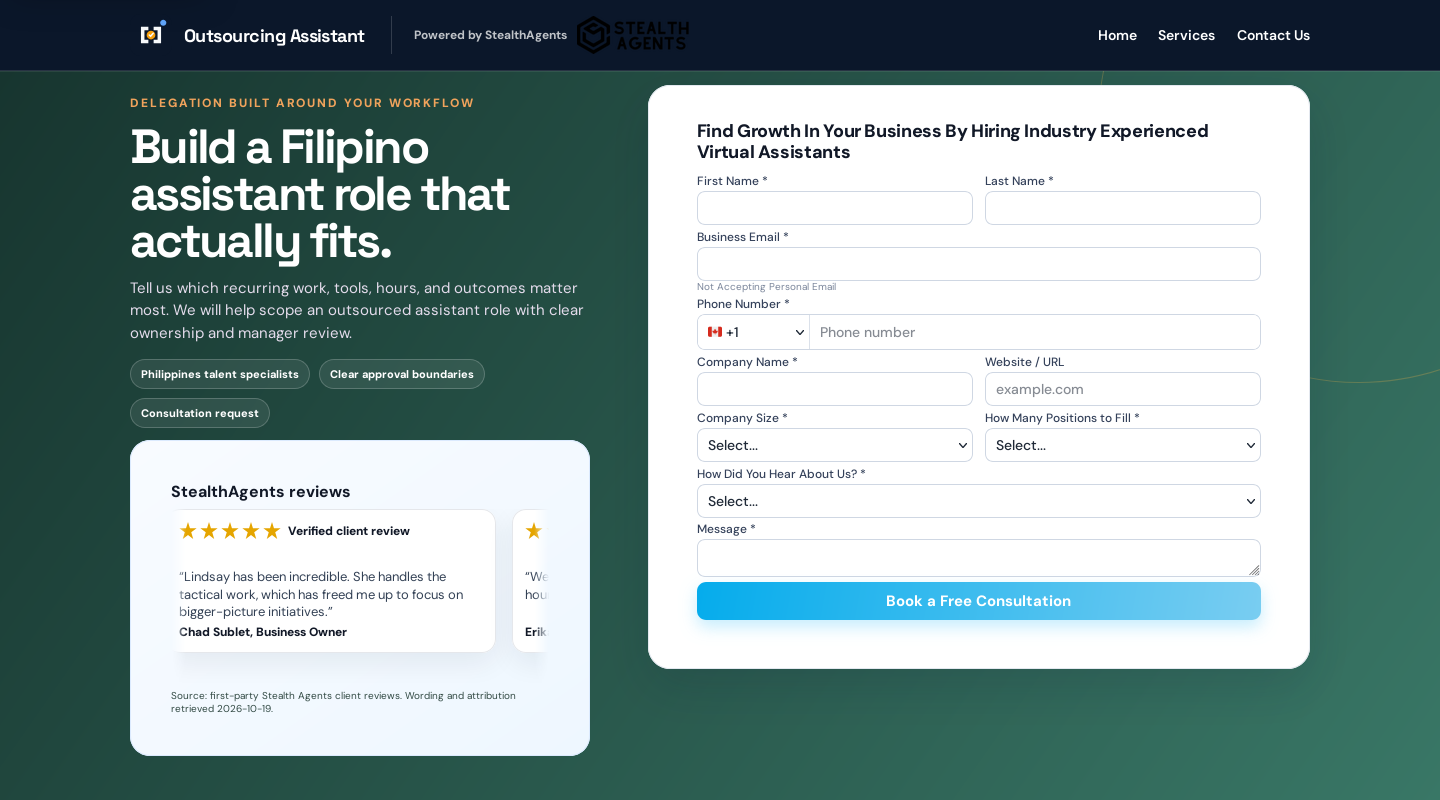
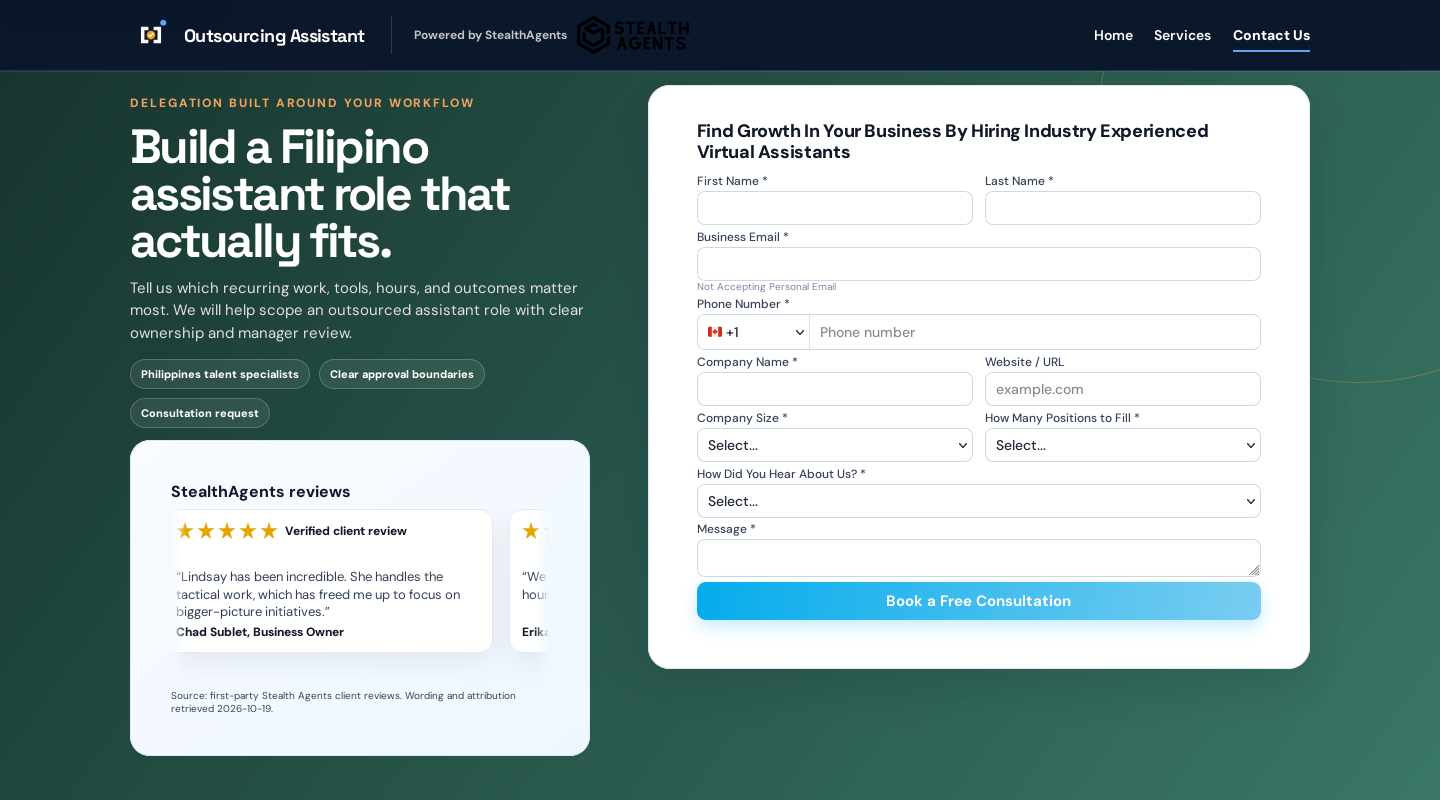
fix: vary editorial art and restore active navigation

diff --git a/app/editorial-art/[slug]/route.ts b/app/editorial-art/[slug]/route.ts
@@ -6,7 +6,6 @@ export const dynamic = 'force-dynamic';
 export const runtime = 'nodejs';
 
 const embeddedFont = readFileSync(join(process.cwd(), 'public/fonts/dm-sans-700.ttf')).toString('base64');
-
 const escapeXml = (value: string) => value.replace(/[&<>"']/g, character => ({ '&': '&amp;', '<': '&lt;', '>': '&gt;', '"': '&quot;', "'": '&apos;' }[character] ?? character));
 
 function wrapTitle(title: string) {
@@ -26,6 +25,47 @@ function hash(value: string) {
   return result >>> 0;
 }
 
+type Topic = 'schedule' | 'systems' | 'evidence' | 'service' | 'access' | 'finance' | 'quality' | 'handoff' | 'people' | 'workflow';
+function topicFor(title: string): Topic {
+  if (/calendar|schedule|meeting|timezone|travel|appointment|deadline/i.test(title)) return 'schedule';
+  if (/crm|data|record|database|system|integration|automation/i.test(title)) return 'systems';
+  if (/research|source|evidence|claim|citation|content|article/i.test(title)) return 'evidence';
+  if (/inbox|support|customer|ticket|service|recovery/i.test(title)) return 'service';
+  if (/access|security|permission|password|governance|offboard/i.test(title)) return 'access';
+  if (/invoice|bookkeep|finance|payment|billing|payroll|expense/i.test(title)) return 'finance';
+  if (/quality|review|sample|scorecard|acceptance|defect|audit/i.test(title)) return 'quality';
+  if (/handoff|shift|async|escalat|routing|queue|delegat/i.test(title)) return 'handoff';
+  if (/hire|role|team|assistant|manager|owner|capacity|staff/i.test(title)) return 'people';
+  return 'workflow';
+}
+
+function topicVisual(topic: Topic, accent: string, pale: string, seed: number) {
+  const jitter = (seed % 28) - 14;
+  const common = `fill="none" stroke="${accent}" stroke-width="7" stroke-linecap="round" stroke-linejoin="round"`;
+  switch (topic) {
+    case 'schedule':
+      return `<g data-visual="schedule"><rect x="48" y="92" width="378" height="330" rx="26" fill="#fff" stroke="#94a3b8" stroke-width="3"/><rect x="48" y="92" width="378" height="70" rx="26" fill="${pale}"/><line x1="48" y1="162" x2="426" y2="162" stroke="#94a3b8" stroke-width="3"/><g fill="${accent}"><circle cx="120" cy="226" r="16"/><circle cx="238" cy="226" r="16"/><circle cx="356" cy="302" r="16"/><rect x="96" y="338" width="166" height="28" rx="14"/></g><g stroke="#cbd5e1" stroke-width="3"><line x1="166" y1="184" x2="166" y2="398"/><line x1="284" y1="184" x2="284" y2="398"/><line x1="74" y1="272" x2="400" y2="272"/></g><text x="74" y="137" class="note">SCHEDULE MAP</text></g>`;
+    case 'systems':
+      return `<g data-visual="systems"><g fill="${pale}" stroke="${accent}" stroke-width="4"><ellipse cx="237" cy="112" rx="150" ry="42"/><path d="M87 112v92c0 24 67 42 150 42s150-18 150-42v-92"/><path d="M87 204v92c0 24 67 42 150 42s150-18 150-42v-92"/></g><g fill="#fff" stroke="#94a3b8" stroke-width="3"><rect x="52" y="382" width="118" height="70" rx="16"/><rect x="178" y="382" width="118" height="70" rx="16"/><rect x="304" y="382" width="118" height="70" rx="16"/></g><path d="M237 338v28M111 366v16M363 366v16M111 366h252" ${common}/><text x="137" y="188" class="note">SOURCE OF TRUTH</text></g>`;
+    case 'evidence':
+      return `<g data-visual="evidence"><g transform="translate(${jitter} 0)"><rect x="70" y="86" width="255" height="320" rx="20" fill="#fff" stroke="#94a3b8" stroke-width="3"/><rect x="98" y="124" width="152" height="18" rx="9" fill="${accent}"/><g stroke="#cbd5e1" stroke-width="9"><line x1="98" y1="180" x2="288" y2="180"/><line x1="98" y1="220" x2="270" y2="220"/><line x1="98" y1="260" x2="286" y2="260"/><line x1="98" y1="300" x2="230" y2="300"/></g><circle cx="328" cy="342" r="82" fill="${pale}" stroke="${accent}" stroke-width="8"/><line x1="386" y1="400" x2="438" y2="452" ${common}/><path d="M292 342l25 25 48-57" ${common}/></g><text x="92" y="474" class="note">SOURCE CHECK</text></g>`;
+    case 'service':
+      return `<g data-visual="service"><g fill="#fff" stroke="#94a3b8" stroke-width="3"><rect x="46" y="88" width="382" height="98" rx="20"/><rect x="46" y="205" width="382" height="98" rx="20"/><rect x="46" y="322" width="382" height="98" rx="20"/></g><g fill="${accent}"><circle cx="91" cy="137" r="18"/><circle cx="91" cy="254" r="18"/><circle cx="91" cy="371" r="18"/></g><g stroke="#cbd5e1" stroke-width="9"><line x1="130" y1="126" x2="324" y2="126"/><line x1="130" y1="151" x2="272" y2="151"/><line x1="130" y1="243" x2="350" y2="243"/><line x1="130" y1="268" x2="250" y2="268"/><line x1="130" y1="360" x2="310" y2="360"/><line x1="130" y1="385" x2="364" y2="385"/></g><path d="M360 106l22 22 34-42" ${common}/><text x="48" y="470" class="note">SERVICE QUEUE</text></g>`;
+    case 'access':
+      return `<g data-visual="access"><rect x="72" y="206" width="330" height="244" rx="30" fill="#fff" stroke="#94a3b8" stroke-width="3"/><path d="M146 206v-56c0-72 43-112 91-112s91 40 91 112v56" fill="none" stroke="${accent}" stroke-width="22"/><circle cx="237" cy="302" r="34" fill="${pale}" stroke="${accent}" stroke-width="6"/><line x1="237" y1="336" x2="237" y2="386" ${common}/><g fill="${accent}"><circle cx="104" cy="476" r="10"/><circle cx="140" cy="476" r="10"/><circle cx="176" cy="476" r="10"/></g><text x="211" y="484" class="note">OWNER APPROVAL</text></g>`;
+    case 'finance':
+      return `<g data-visual="finance"><rect x="62" y="68" width="350" height="394" rx="24" fill="#fff" stroke="#94a3b8" stroke-width="3"/><text x="94" y="120" class="note">INVOICE REVIEW</text><g stroke="#cbd5e1" stroke-width="8"><line x1="94" y1="162" x2="360" y2="162"/><line x1="94" y1="204" x2="312" y2="204"/><line x1="94" y1="246" x2="348" y2="246"/></g><g fill="${pale}"><rect x="94" y="296" width="66" height="112" rx="12"/><rect x="184" y="254" width="66" height="154" rx="12"/><rect x="274" y="326" width="66" height="82" rx="12"/></g><path d="M94 382l123-92 90 47 77-116" ${common}/><circle cx="384" cy="221" r="10" fill="${accent}"/></g>`;
+    case 'quality':
+      return `<g data-visual="quality"><circle cx="237" cy="252" r="172" fill="#fff" stroke="#cbd5e1" stroke-width="28"/><path d="M237 80a172 172 0 0 1 158 104" fill="none" stroke="${accent}" stroke-width="28" stroke-linecap="round"/><circle cx="237" cy="252" r="94" fill="${pale}"/><text x="176" y="266" class="score">${82 + seed % 16}%</text><path d="M150 382l46 46 104-116" ${common}/><text x="130" y="484" class="note">QUALITY SAMPLE</text></g>`;
+    case 'handoff':
+      return `<g data-visual="handoff"><g fill="#fff" stroke="#94a3b8" stroke-width="3"><rect x="42" y="102" width="132" height="286" rx="22"/><rect x="300" y="102" width="132" height="286" rx="22"/></g><text x="76" y="148" class="note">ASSIST</text><text x="334" y="148" class="note">OWNER</text><g fill="${pale}"><rect x="66" y="188" width="84" height="54" rx="12"/><rect x="66" y="270" width="84" height="54" rx="12"/><rect x="324" y="188" width="84" height="54" rx="12"/><rect x="324" y="270" width="84" height="54" rx="12"/></g><path d="M178 214h104l-24-24m24 24l-24 24M296 298H192l24-24m-24 24l24 24" ${common}/><text x="129" y="450" class="note">HANDOFF LOOP</text></g>`;
+    case 'people':
+      return `<g data-visual="people"><g fill="${pale}" stroke="${accent}" stroke-width="5"><circle cx="237" cy="112" r="54"/><circle cx="100" cy="306" r="48"/><circle cx="237" cy="366" r="48"/><circle cx="374" cy="306" r="48"/></g><g stroke="${accent}" stroke-width="7"><line x1="207" y1="158" x2="126" y2="263"/><line x1="237" y1="166" x2="237" y2="318"/><line x1="267" y1="158" x2="348" y2="263"/></g><g fill="#fff"><circle cx="237" cy="102" r="16"/><circle cx="100" cy="296" r="14"/><circle cx="237" cy="356" r="14"/><circle cx="374" cy="296" r="14"/></g><text x="138" y="464" class="note">ROLE OWNERSHIP</text></g>`;
+    default:
+      return `<g data-visual="workflow"><g fill="#fff" stroke="#94a3b8" stroke-width="3"><rect x="38" y="92" width="112" height="330" rx="20"/><rect x="181" y="92" width="112" height="330" rx="20"/><rect x="324" y="92" width="112" height="330" rx="20"/></g><g fill="${accent}"><rect x="58" y="132" width="72" height="76" rx="14"/><rect x="201" y="238" width="72" height="94" rx="14"/><rect x="344" y="152" width="72" height="128" rx="14"/></g><path d="M150 250h31M293 250h31" ${common}/><text x="58" y="458" class="note">WORKFLOW BOARD</text></g>`;
+  }
+}
+
 export async function GET(request: NextRequest, { params }: { params: Promise<{ slug: string }> }) {
   const { slug } = await params;
   const title = request.nextUrl.searchParams.get('title')?.slice(0, 180) || 'Delegation operating guide';
@@ -33,9 +73,9 @@ export async function GET(request: NextRequest, { params }: { params: Promise<{ 
   const seed = hash(slug);
   const accent = ['#f59e0b', '#60a5fa', '#a3d65c', '#fb7185'][seed % 4];
   const pale = ['#dbeafe', '#fef3c7', '#dcfce7', '#ffe4e6'][(seed >>> 3) % 4];
-  const label = /calendar|schedule|meeting/i.test(title) ? 'SCHEDULE' : /crm|data|record/i.test(title) ? 'SYSTEMS' : /research|source|evidence/i.test(title) ? 'EVIDENCE' : /inbox|support|customer/i.test(title) ? 'SERVICE' : /access|security|permission/i.test(title) ? 'ACCESS' : 'WORKFLOW';
+  const topic = topicFor(title);
   const lines = wrapTitle(title).map((line, index) => `<text x="88" y="${236 + index * 62}" class="title">${escapeXml(line)}</text>`).join('');
-  const graph = Array.from({ length: 5 }, (_, index) => `${40 + index * 82},${350 - ((seed >>> (index * 3)) % 155)}`).join(' ');
-  const svg = `<svg xmlns="http://www.w3.org/2000/svg" width="1280" height="720" viewBox="0 0 1280 720" role="img" aria-labelledby="title desc"><title id="title">${escapeXml(title)}</title><desc id="desc">A topic-specific Outsourcing Assistant workflow illustration for ${escapeXml(title)}.</desc><style>@font-face{font-family:EmbeddedDM;src:url(data:font/ttf;base64,${embeddedFont}) format('truetype');font-weight:700}.title{font:700 46px EmbeddedDM,sans-serif;fill:#f8fafc}.small{font:700 18px EmbeddedDM,sans-serif;letter-spacing:3px;fill:${accent}}.note{font:700 20px EmbeddedDM,sans-serif;fill:#0b172a}.muted{font:700 17px EmbeddedDM,sans-serif;fill:#475569}</style><rect width="1280" height="720" fill="#071525"/><circle cx="1160" cy="80" r="280" fill="none" stroke="#17324f" stroke-width="2"/><circle cx="1100" cy="680" r="390" fill="none" stroke="#17324f" stroke-width="2"/><text x="88" y="104" class="small">OUTSOURCING ASSISTANT · ${escapeXml(family.toUpperCase())}</text><rect x="88" y="142" width="84" height="5" rx="3" fill="${accent}"/>${lines}<g transform="translate(720 112)"><rect width="474" height="500" rx="34" fill="#f8fafc"/><rect x="34" y="34" width="406" height="72" rx="18" fill="${pale}"/><circle cx="70" cy="70" r="13" fill="${accent}"/><text x="98" y="77" class="note">${label} HANDOFF</text><g fill="#fff" stroke="#94a3b8" stroke-width="2"><rect x="42" y="138" width="184" height="86" rx="14"/><rect x="248" y="138" width="184" height="86" rx="14"/><rect x="42" y="246" width="390" height="132" rx="14"/></g><text x="62" y="174" class="muted">Input</text><text x="268" y="174" class="muted">Owner rule</text><text x="62" y="282" class="muted">Evidence and next action</text><polyline points="${graph}" fill="none" stroke="${accent}" stroke-width="8" stroke-linecap="round" stroke-linejoin="round"/><line x1="68" y1="420" x2="406" y2="420" stroke="#cbd5e1" stroke-width="3"/></g><text x="88" y="650" class="small">SCOPE · HANDOFF · REVIEW</text></svg>`;
+  const visual = topicVisual(topic, accent, pale, seed);
+  const svg = `<svg xmlns="http://www.w3.org/2000/svg" width="1280" height="720" viewBox="0 0 1280 720" role="img" aria-labelledby="title desc"><title id="title">${escapeXml(title)}</title><desc id="desc">A ${topic} illustration for ${escapeXml(title)}.</desc><style>@font-face{font-family:EmbeddedDM;src:url(data:font/ttf;base64,${embeddedFont}) format('truetype');font-weight:700}.title{font:700 46px EmbeddedDM,sans-serif;fill:#f8fafc}.small{font:700 18px EmbeddedDM,sans-serif;letter-spacing:3px;fill:${accent}}.note{font:700 18px EmbeddedDM,sans-serif;fill:#0b172a}.score{font:700 38px EmbeddedDM,sans-serif;fill:#0b172a}</style><rect width="1280" height="720" fill="#071525"/><circle cx="1160" cy="80" r="280" fill="none" stroke="#17324f" stroke-width="2"/><circle cx="1100" cy="680" r="390" fill="none" stroke="#17324f" stroke-width="2"/><text x="88" y="104" class="small">OUTSOURCING ASSISTANT · ${escapeXml(family.toUpperCase())}</text><rect x="88" y="142" width="84" height="5" rx="3" fill="${accent}"/>${lines}<g transform="translate(720 86)"><rect width="474" height="548" rx="34" fill="#f8fafc"/>${visual}</g><text x="88" y="650" class="small">${topic.toUpperCase()} · SCOPE · REVIEW</text></svg>`;
   return new Response(svg, { headers: { 'Content-Type': 'image/svg+xml; charset=utf-8', 'Cache-Control': 'public, max-age=31536000, immutable', 'X-Content-Type-Options': 'nosniff' } });
 }

diff --git a/app/globals.css b/app/globals.css
@@ -94,13 +94,15 @@ a:focus-visible,button:focus-visible,input:focus-visible,select:focus-visible,te
 .parent-brand-compact{padding-left:22px;border-left:1px solid rgba(255,255,255,.16)}
 .links a{position:relative;color:#fff}
 .links a:after{content:"";position:absolute;right:0;bottom:-8px;left:0;height:2px;transform:scaleX(0);background:var(--lime);transition:transform .18s}
-.links a:hover:after,.links a:focus-visible:after{transform:scaleX(1)}
+.links a:hover:after,.links a:focus-visible:after,.links a.is-active:after,.links a[aria-current="page"]:after{transform:scaleX(1)}
+.links a.is-active,.links a[aria-current="page"]{color:#fff;font-weight:800}
 .mobile-navigation{display:none;margin-left:auto}
 .mobile-navigation>button,.mobile-close{min-height:44px;padding:8px 14px;border:1px solid rgba(255,255,255,.3);border-radius:9px;background:transparent;color:#fff;font-weight:800;cursor:pointer}
 .mobile-navigation-panel{position:fixed;z-index:200;inset:0;display:grid;grid-template-rows:auto 1fr;padding:18px;background:#07111f;color:#fff}
 .mobile-close{justify-self:end}
 .mobile-navigation-panel nav{display:grid;align-content:start;gap:6px;width:min(100%,520px);margin:52px auto 0}
 .mobile-navigation-panel nav a{padding:18px 4px;border-bottom:1px solid rgba(255,255,255,.18);font-family:'Space Grotesk',sans-serif;font-size:clamp(26px,9vw,42px);font-weight:700}
+.mobile-navigation-panel nav a.is-active,.mobile-navigation-panel nav a[aria-current="page"]{border-bottom-color:var(--lime);color:var(--lime)}
 .menu-open{overflow:hidden}
 .legit-footer .parent-brand{margin-top:18px}.legit-footer .parent-brand img{width:149px}.legit-footer h2{margin:3px 0 16px;color:var(--lime);font-size:11px;text-transform:uppercase;letter-spacing:.14em}
 

diff --git a/V3-IMPLEMENTATION-REPORT.md b/V3-IMPLEMENTATION-REPORT.md
@@ -63,7 +63,8 @@ The design fingerprint is specific to Outsourcing Assistant: a warm editorial de
 
 - Blog, research, and standalone resource families share complete generated TOCs, stable heading IDs, sticky populated desktop sidebars, active-section behavior, mobile TOCs, related reading, and topic-aware imagery.
 - Every generated blog and research detail route receives a unique, topic-labelled first-party editorial illustration URL with meaningful alt text.
-- Generated SVG illustrations embed the site font, and blog layouts never place promotional banners before the header or after the footer.
+- Generated SVG illustrations embed the site font and select among ten topic-level compositions (schedule, systems, evidence, service, access, finance, quality, handoff, people, and workflow), rather than changing only text and color inside one repeated graphic. Blog layouts never place promotional banners before the header or after the footer.
+- Desktop and mobile navigation expose `aria-current="page"` and persistent, visibly distinct active-route treatments.
 - Blog pagination canonicalizes `/blog/page/1` to `/blog`.
 - Sitemap generation deduplicates by path and produces deterministic ordering.
 - Legacy routes permanently redirect: `/contact` and `/pricing` to `/contact-us`, `/cancellation` to `/cancellation-policy`, and `/blog/page/1` to `/blog`.
